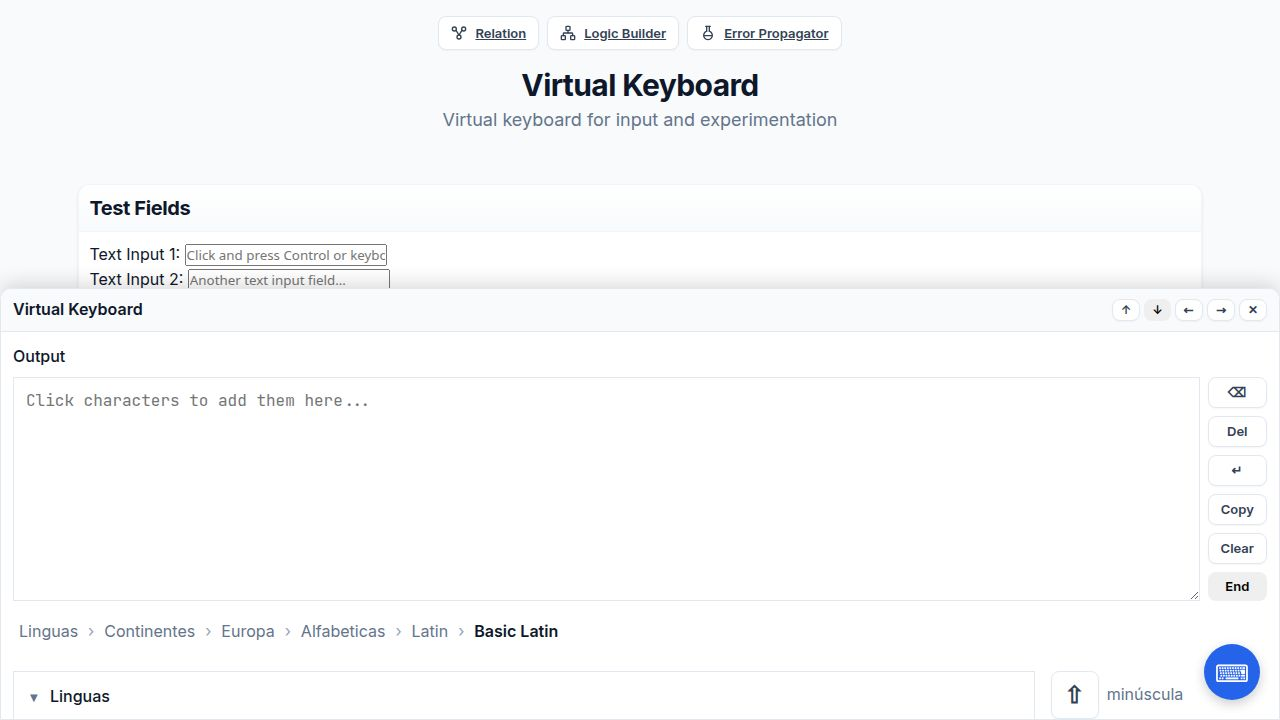
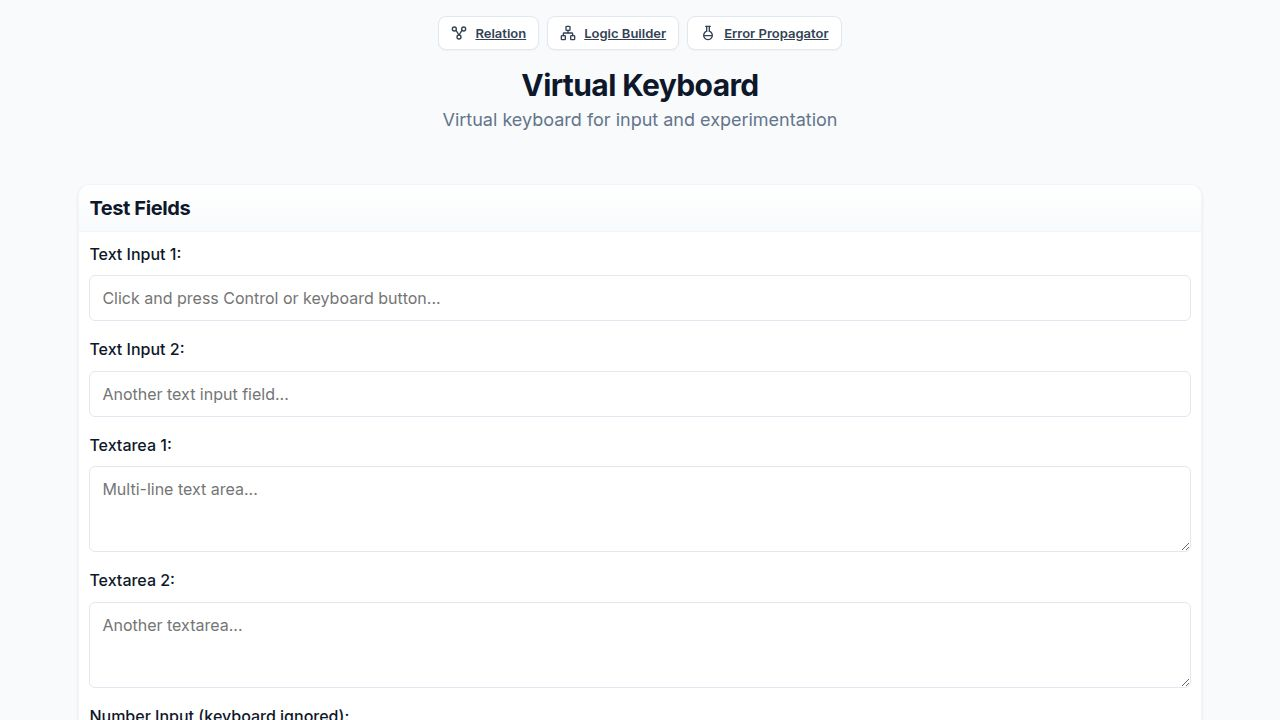
Improve keyboard layout and add fullscreen mode for better usability
Update CSS to adjust keyboard key sizes, button layouts, and introduce a fullscreen mode. Modify the virtual keyboard component to include a fullscreen option, dynamically render input/textarea elements, and manage external cursor positions.

Replit-Commit-Author: Agent
Replit-Commit-Session-Id: f7923a3d-83ac-4897-892d-3df5e2c8ae99
Replit-Commit-Checkpoint-Type: intermediate_checkpoint
Replit-Commit-Event-Id: 9c3e4a64-d3b2-474e-b748-6e0c6dbdefbe
Replit-Commit-Screenshot-Url: https://storage.googleapis.com/screenshot-production-us-central1/663ff4e8-5830-4441-89b9-e1d6236cf37d/f7923a3d-83ac-4897-892d-3df5e2c8ae99/nnpS5Ft
Replit-Helium-Checkpoint-Created: true

diff --git a/client/src/virtual-keyboard.js b/client/src/virtual-keyboard.js
@@ -13,10 +13,11 @@ const state = {
   hierarchyCollapsed: false, // true when block is selected, shows compact nav
   compositionInput: '', // For CJK romanization input
   keyboardVisible: false, // Whether keyboard panel is visible (hidden by default)
-  keyboardPosition: 'bottom', // 'bottom', 'top', 'left', 'right'
+  keyboardPosition: 'bottom', // 'bottom', 'top', 'left', 'right', 'fullscreen'
   floatingButtonPos: { x: null, y: null }, // Custom position for floating button
   activeExternalField: null, // Reference to external input/textarea being edited
-  isMultilineField: false // true for textarea, false for input[type=text]
+  isMultilineField: false, // true for textarea, false for input[type=text]
+  externalCursorPos: 0 // Cursor position from external field
 };
 
 // Unicode character names cache
@@ -152,6 +153,7 @@ function renderKeyboard() {
           <button id="pos-bottom" class="btn btn-xs btn-outline" title="Bottom">↓</button>
           <button id="pos-left" class="btn btn-xs btn-outline" title="Left 1/3">←</button>
           <button id="pos-right" class="btn btn-xs btn-outline" title="Right 1/3">→</button>
+          <button id="pos-fullscreen" class="btn btn-xs btn-outline" title="Fullscreen">⛶</button>
           <button id="keyboard-close-btn" class="btn btn-xs btn-outline" title="Close">✕</button>
         </div>
       </div>
@@ -160,7 +162,7 @@ function renderKeyboard() {
         <div class="keyboard-output-section">
           <label class="keyboard-label">Output</label>
           <div class="keyboard-output-container">
-            <textarea id="keyboard-output" class="keyboard-output" placeholder="Click characters to add them here..."></textarea>
+            <div id="keyboard-output-wrapper"></div>
             <div class="keyboard-output-actions">
               <button id="btn-backspace" class="btn btn-sm btn-outline" title="Backspace">⌫</button>
               <button id="btn-delete" class="btn btn-sm btn-outline" title="Delete">Del</button>
@@ -214,6 +216,7 @@ function renderKeyboard() {
     </div>
   `;
   
+  renderOutputField();
   renderHierarchy();
   renderCompositionArea();
   renderRecentBlocks();
@@ -221,10 +224,36 @@ function renderKeyboard() {
   updateEnterButtonVisibility();
   
   // Set initial active state for position button
-  const bottomBtn = document.getElementById('pos-bottom');
-  if (bottomBtn) {
-    bottomBtn.classList.remove('btn-outline');
-    bottomBtn.classList.add('btn-primary');
+  const activePos = state.keyboardPosition;
+  ['top', 'bottom', 'left', 'right', 'fullscreen'].forEach(pos => {
+    const btn = document.getElementById(`pos-${pos}`);
+    if (btn) {
+      btn.classList.toggle('btn-primary', pos === activePos);
+      btn.classList.toggle('btn-outline', pos !== activePos);
+    }
+  });
+}
+
+function renderOutputField() {
+  const wrapper = document.getElementById('keyboard-output-wrapper');
+  if (!wrapper) return;
+  
+  const isMultiline = state.isMultilineField;
+  const currentValue = state.output || '';
+  
+  if (isMultiline) {
+    wrapper.innerHTML = `<textarea id="keyboard-output" class="keyboard-output" placeholder="Click characters to add them here..."></textarea>`;
+  } else {
+    wrapper.innerHTML = `<input type="text" id="keyboard-output" class="keyboard-output keyboard-output-single" placeholder="Click characters to add them here...">`;
+  }
+  
+  const outputEl = document.getElementById('keyboard-output');
+  if (outputEl) {
+    outputEl.value = currentValue;
+    outputEl.setSelectionRange(state.externalCursorPos, state.externalCursorPos);
+    outputEl.addEventListener('input', (e) => {
+      state.output = e.target.value;
+    });
   }
 }
 
@@ -576,7 +605,7 @@ function renderCharacterGrid() {
     const hexCode = item.code.toString(16).toUpperCase().padStart(4, '0');
     
     const btn = document.createElement('button');
-    btn.className = 'keyboard-key';
+    btn.className = 'keyboard-key has-popup';
     if (hasVariants) btn.classList.add('has-variants');
     if (hasSkinTones) btn.classList.add('has-skin-tones');
     btn.dataset.char = displayChar;
@@ -595,13 +624,6 @@ function renderCharacterGrid() {
       translitSpan.className = 'key-translit';
       translitSpan.textContent = translit;
       btn.appendChild(translitSpan);
-    }
-    
-    if (hasVariants || hasSkinTones) {
-      const indicator = document.createElement('span');
-      indicator.className = 'key-indicator';
-      indicator.textContent = '•';
-      btn.appendChild(indicator);
     }
     
     return btn;
@@ -941,6 +963,7 @@ function attachEventListeners() {
   document.getElementById('pos-bottom')?.addEventListener('click', () => setKeyboardPosition('bottom'));
   document.getElementById('pos-left')?.addEventListener('click', () => setKeyboardPosition('left'));
   document.getElementById('pos-right')?.addEventListener('click', () => setKeyboardPosition('right'));
+  document.getElementById('pos-fullscreen')?.addEventListener('click', () => setKeyboardPosition('fullscreen'));
   
   // Make toggle button draggable
   setupToggleButtonDrag();
@@ -1070,17 +1093,32 @@ function handleEnd() {
   if (!outputEl) return;
   
   const text = outputEl.value;
-  if (!text) return;
+  const cursorPos = outputEl.selectionStart || 0;
   
-  navigator.clipboard.writeText(text).then(() => {
+  // Sync text and cursor back to external field
+  if (state.activeExternalField) {
+    state.activeExternalField.value = text;
+    state.activeExternalField.setSelectionRange(cursorPos, cursorPos);
+    state.activeExternalField.focus();
+    
     const btn = document.getElementById('btn-end');
     if (btn) {
       const original = btn.textContent;
-      btn.textContent = 'Sent!';
+      btn.textContent = 'Done!';
       setTimeout(() => { btn.textContent = original; }, 1500);
     }
-    clearOutput();
-  });
+  } else {
+    // No external field - copy to clipboard as fallback
+    navigator.clipboard.writeText(text).then(() => {
+      const btn = document.getElementById('btn-end');
+      if (btn) {
+        const original = btn.textContent;
+        btn.textContent = 'Copied!';
+        setTimeout(() => { btn.textContent = original; }, 1500);
+      }
+      clearOutput();
+    });
+  }
 }
 
 function copyOutput() {
@@ -1103,6 +1141,13 @@ function setKeyboardVisible(visible) {
   const panel = document.getElementById('keyboard-panel');
   const toggleBtn = document.getElementById('keyboard-toggle-btn');
   
+  // Sync text and cursor from external field when opening
+  if (visible && state.activeExternalField) {
+    state.output = state.activeExternalField.value || '';
+    state.externalCursorPos = state.activeExternalField.selectionStart || 0;
+    renderOutputField();
+  }
+  
   if (panel) {
     panel.classList.toggle('keyboard-panel-hidden', !visible);
   }
@@ -1120,7 +1165,7 @@ function setKeyboardPosition(position) {
   }
   
   // Update active button state
-  ['top', 'bottom', 'left', 'right'].forEach(pos => {
+  ['top', 'bottom', 'left', 'right', 'fullscreen'].forEach(pos => {
     const btn = document.getElementById(`pos-${pos}`);
     if (btn) {
       btn.classList.toggle('btn-primary', pos === position);
@@ -1220,58 +1265,6 @@ function clearOutput() {
   const outputEl = document.getElementById('keyboard-output');
   if (outputEl) {
     outputEl.value = '';
-  }
-}
-
-function showVariantsPopup(keyBtn) {
-  const char = keyBtn.dataset.char;
-  const variants = accentedVariants[char];
-  if (!variants || variants.length === 0) return;
-  
-  const popup = document.getElementById('variants-popup');
-  if (!popup) return;
-  
-  popup.innerHTML = '';
-  
-  const title = document.createElement('div');
-  title.className = 'variants-title';
-  title.textContent = `Variants of "${char}"`;
-  popup.appendChild(title);
-  
-  const grid = document.createElement('div');
-  grid.className = 'variants-grid';
-  
-  variants.forEach(v => {
-    const code = v.codePointAt(0);
-    const hexCode = code.toString(16).toUpperCase().padStart(4, '0');
-    
-    const btn = document.createElement('button');
-    btn.className = 'variant-key';
-    btn.dataset.char = v;
-    btn.title = `U+${hexCode}`;
-    
-    const charSpan = document.createElement('span');
-    charSpan.className = 'key-char';
-    charSpan.textContent = v;
-    btn.appendChild(charSpan);
-    
-    grid.appendChild(btn);
-  });
-  
-  popup.appendChild(grid);
-  
-  // Position popup near the key
-  const rect = keyBtn.getBoundingClientRect();
-  const containerRect = document.getElementById('keyboard-container').getBoundingClientRect();
-  
-  popup.style.display = 'block';
-  popup.style.left = `${rect.left - containerRect.left}px`;
-  popup.style.top = `${rect.bottom - containerRect.top + 5}px`;
-  
-  // Ensure popup stays within bounds
-  const popupRect = popup.getBoundingClientRect();
-  if (popupRect.right > containerRect.right) {
-    popup.style.left = `${containerRect.right - popupRect.width - containerRect.left}px`;
   }
 }
 

diff --git a/client/src/styles.css b/client/src/styles.css
@@ -2927,11 +2927,12 @@ input[type="number"] {
 
 .keyboard-output-container {
   display: flex;
+  flex-direction: column;
   gap: var(--space-2);
 }
 
 .keyboard-output {
-  flex: 1;
+  width: 100%;
   min-height: 60px;
   padding: var(--space-3);
   border: 1px solid var(--border);
@@ -2942,10 +2943,18 @@ input[type="number"] {
   background: var(--card);
 }
 
+.keyboard-output-single {
+  min-height: auto;
+  height: 40px;
+  resize: none;
+}
+
 .keyboard-output-actions {
   display: flex;
-  flex-direction: column;
+  flex-direction: row;
+  flex-wrap: wrap;
   gap: var(--space-2);
+  justify-content: flex-start;
 }
 
 .keyboard-nav-section {
@@ -3167,7 +3176,7 @@ input[type="number"] {
 
 .keyboard-grid {
   display: grid;
-  grid-template-columns: repeat(auto-fill, minmax(48px, 1fr));
+  grid-template-columns: repeat(auto-fill, minmax(42px, 1fr));
   gap: 4px;
   padding: var(--space-2);
   border: 1px solid var(--border);
@@ -3175,6 +3184,20 @@ input[type="number"] {
   background: var(--slate-100);
   max-height: 400px;
   overflow-y: auto;
+}
+
+/* Row-based layout for QWERTY etc */
+.keyboard-row {
+  display: flex;
+  gap: 4px;
+  justify-content: center;
+  width: 100%;
+}
+
+.keyboard-row .keyboard-key {
+  flex: 0 0 42px;
+  min-width: 42px;
+  max-width: 52px;
 }
 
 .keyboard-key {
@@ -3205,8 +3228,12 @@ input[type="number"] {
   box-shadow: inset 0 1px 2px rgba(0,0,0,0.1);
 }
 
-.keyboard-key.has-variants {
+.keyboard-key.has-popup {
   border-bottom: 2px solid var(--primary-400);
+}
+
+.keyboard-key.has-variants {
+  border-bottom-color: var(--primary-600);
 }
 
 .key-char {
@@ -3744,4 +3771,38 @@ input[type="number"] {
 .keyboard-position-left .keyboard-grid,
 .keyboard-position-right .keyboard-grid {
   grid-template-columns: repeat(auto-fill, minmax(36px, 1fr));
+}
+
+/* Position: Fullscreen */
+.keyboard-position-fullscreen {
+  position: fixed;
+  top: 0;
+  left: 0;
+  right: 0;
+  bottom: 0;
+  width: 100vw;
+  height: 100vh;
+  max-height: 100vh;
+  border-radius: 0;
+  z-index: 1001;
+}
+
+.keyboard-position-fullscreen.keyboard-panel-hidden {
+  transform: scale(0.95);
+  visibility: hidden;
+}
+
+.keyboard-position-fullscreen .keyboard-wrapper {
+  height: calc(100vh - 50px);
+  overflow-y: auto;
+}
+
+.keyboard-position-fullscreen .keyboard-grid {
+  grid-template-columns: repeat(auto-fill, minmax(48px, 1fr));
+}
+
+.keyboard-position-fullscreen .keyboard-row .keyboard-key {
+  flex: 0 0 52px;
+  min-width: 48px;
+  max-width: 60px;
 }
